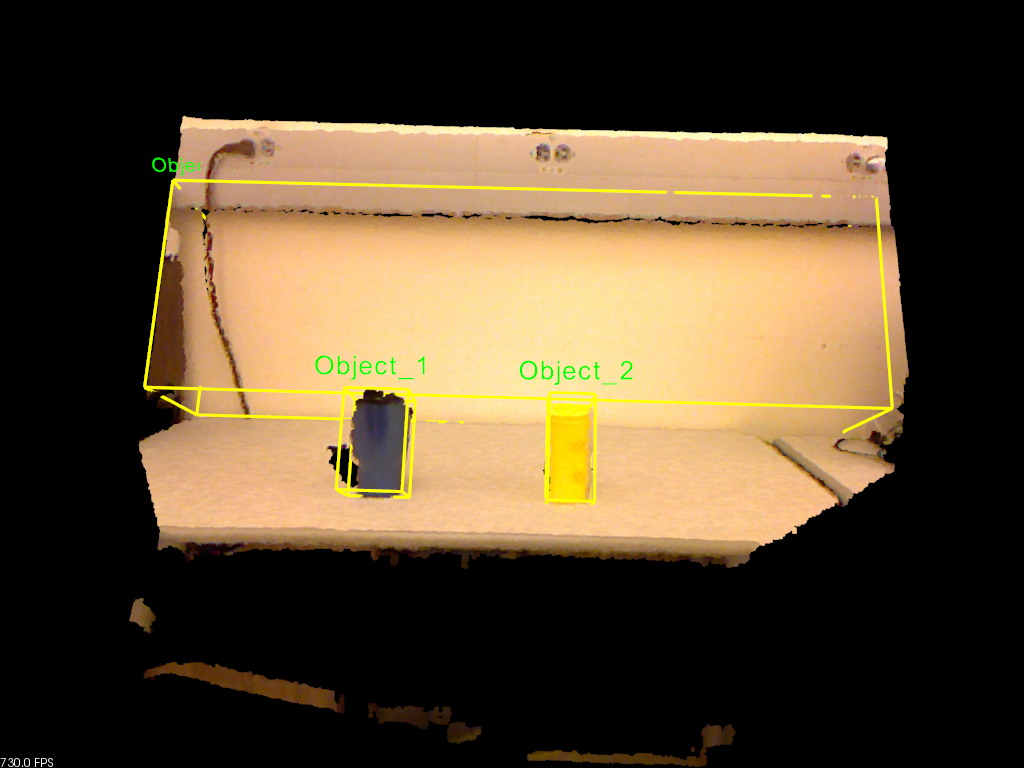
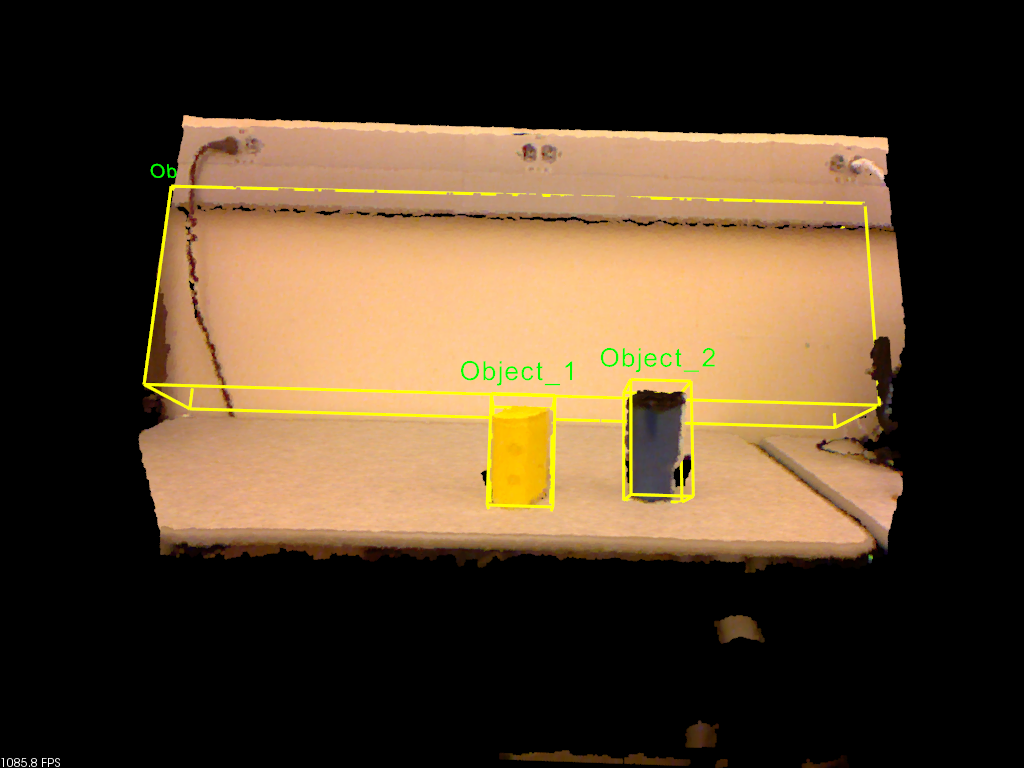
updated object grasping routine and OPE

diff --git a/scripts/joint_trajectory_server.py b/scripts/joint_trajectory_server.py
@@ -72,21 +72,29 @@ import threading
 class JointTrajectoryServer():
 	def __init__(self, device_num=None, left_right='l'):
 
-		self.isInitialized = False
-		self.encoder_decode_error = False
-		self.interface = None 			# python serial interface
+		self.is_initialized = False 		# gets set after constructer successfully finishes
+		self.encoder_decode_error = False	# gets set when theres an issue decoding serial responses... not sure how to fix 
+		self.interface = None 				# python serial interface
 
-		device_list = self.getUSBDeviceNames()
-		if device_num == None:
-			self.device_name = device_list[0] 					# linux device name for serial interface
+		# get the device names from /dev folder
+		device_list = self.getUSBDeviceNames() 
+		if len(device_list) != 0:
+			if device_num == None:
+				self.device_name = device_list[0] 					# linux device name for serial interface
+			else:
+				self.device_name = device_list[device_num] 					# linux device name for serial interface
 		else:
-			self.device_name = device_list[device_num] 					# linux device name for serial interface
+			print "Error initializing serial interface... (make sure the arms are plugged in!)"
+			return
 
+		print "------------------------------------------------------------------------------------------"
+		print "sudo priveleges are needed to load the kernel module and change USB write permissions..."
+		print "------------------------------------------------------------------------------------------"
 		call(["sudo", "chmod", "+777", self.device_name]) 	# give permissions to access device file
 		self.initializeSerialInterface(self.device_name)
 		self.resetSerialInterface()
 
-		# need a better method here
+		# TODO: need a better method here for determining r/l arms
 		if 'r' in left_right:
 			self.arm_name = "right"
 		else:
@@ -94,18 +102,20 @@ class JointTrajectoryServer():
 
 		print "Initializing", self.arm_name, "arm..."
 
-		self.rate = 0.22 					# pulse width period for sending joint commands through USB  (Dont change it) (0.3 is safe, 0.2 is extreme)
-		self.max_trajectory_velocity = 0.25 # maximum allowed joint velocity (rad/sec)
-		self.pauseControlLoop = False		# flag to set when you want to use serial commands outside of the control loop
+		self.rate = 0.25 					# pulse width period for sending joint commands through USB  (Dont change it) (0.3 is safe, 0.2 is extreme)
+		self.max_trajectory_velocity = 0.3  # maximum allowed joint velocity (rad/sec)
+		self.pause_control_loop = False		# flag to be set when you want to use serial commands outside of the control loop
+		self.planning_failed = False 		# subscribes to the status topic sent from the motion planner 
+											# (THIS FIXES A KNOWN BUG: path plans that result in arm collision are executed (because planning == execution))
 
 		# serial communication results
 		self.joint_array = None 	# most recent hex array from encoders
 		self.joint_angles = None 	# most recent decoded joint angles
 		self.trajectory_queue = [] 	# trajectory queue contains incoming arm trajectory goals
-		self.trajectory_queue_len = 1
+		self.trajectory_queue_len = 1  # holds multiple trajectories if we want to execute queued path plans
 
 		# joint names from ee -> base
-		self.orderedJoints = ['g', 'j6', 'j5', 'j4', 'j3', 'j2', 'j1']
+		self.ordered_joints = ['g', 'j6', 'j5', 'j4', 'j3', 'j2', 'j1']
 		self.full_joint_names = [self.arm_name +'_joint1', self.arm_name +'_joint2', self.arm_name +'_joint3', \
 								 self.arm_name +'_joint4', self.arm_name +'_joint5', self.arm_name +'_joint6']
 
@@ -117,6 +127,7 @@ class JointTrajectoryServer():
 
 		# ros subs and pubs
 		self.rviz_trajectory_sub = rospy.Subscriber('/move_group/result', MoveGroupActionResult, self.updateMoveitTrajectory, queue_size=4)
+		self.rviz_status_sub = rospy.Subscriber('/move_group/status', GoalStatusArray, self.updateMoveitStatus, queue_size=1)
 		self.gripper_sub = rospy.Subscriber('/mara/limb/' + self.arm_name +'/gripper_action/position', Int32, self.updateGripperPosition, queue_size=1)
 
 		self.joint_state_pub = rospy.Publisher("/mara/limb/" +self.arm_name +"/joint_states", JointState, queue_size=1)
@@ -137,9 +148,10 @@ class JointTrajectoryServer():
 	#--------------------------------------------------------------------------------------------------------------------------------------------------#
 	# Callbacks
 	#--------------------------------------------------------------------------------------------------------------------------------------------------#
+	# commands gripper to published position
 	def updateGripperPosition(self, msg):
 		print "Commanding", self.arm_name, 'gripper to', str(msg.data)
-		self.pauseControlLoop = True 	# pause the control loop to free the serial bus
+		self.pause_control_loop = True 	# pause the control loop to free the serial bus
 		rospy.sleep(1.0)
 
 		angles = {self.arm_name+'_joint1':0.0, self.arm_name+'_joint2':0.0,self.arm_name+'_joint3':0.0, \
@@ -162,7 +174,7 @@ class JointTrajectoryServer():
 		msg.status = msg.PENDING
 		self.gripper_result_pub.publish(msg)
 
-
+	# sends joint state feedback on the simple action server
 	def updateFeedback(self, desired_point, angles, error_dict, curr_time):
 		print self.fdbk
 		self.fdbk.header.stamp = rospy.Duration.from_sec(rospy.get_time())
@@ -175,17 +187,26 @@ class JointTrajectoryServer():
 		self.fdbk.error.time_from_start = rospy.Duration.from_sec(curr_time)
 		self.server.publish_feedback(self.fdbk)
 
+	# recognizes ABORTED motion plans
+	def updateMoveitStatus(self, msg):
+		if len(msg.status_list) > 0:
+			if msg.status_list[0].status == msg.status_list[0].ABORTED:
+				print "Error, planning failed!"
+				self.planning_failed = True
+			else:
+				self.planning_failed = False
+
 
 	# receives trajectories from the moveit topic and adds them to the execution queue
 	def updateMoveitTrajectory(self, msg):
-		self.pauseControlLoop = True 	# pause the control loop to free the serial bus
+		self.pause_control_loop = True 	# pause the control loop to free the serial bus (otherwise its constantly queried and we could get bad data)
 		rospy.sleep(0.1)
 
 		# first get the most recent joint states
 		angles = self.getJointAngles() 
 		self.updateJointPositions(angles)
 
-		self.pauseControlLoop = False
+		self.pause_control_loop = False
 		rospy.sleep(0.1)
 
 		# determine what kind of message we received
@@ -264,7 +285,7 @@ class JointTrajectoryServer():
 		try:
 			self.interface = serial.Serial(device_name, 9600,xonxoff=True, timeout=0.1)
 			print self.interface.name
-			self.isInitialized = True
+			self.is_initialized = True
 		except:
 			print("Could not open usb interface for left arm on: \t ---> \t" + str(device_name))
 			print "Attempting to load the kernel module..."
@@ -273,11 +294,11 @@ class JointTrajectoryServer():
 			try:
 				print ("Opening mara control on: \t \t ---> \t" + str(self.interface.name))
 				self.interface = serial.Serial(self.device, 9600, xonxoff=True, timeout=0.1)
-				self.isInitialized = True
+				self.is_initialized = True
 
 			except Exception, e:
 				print "Failed...exiting"
-				self.isInitialized = False
+				self.is_initialized = False
 
 	def resetSerialInterface(self):
 		os.system("sudo modprobe usbserial vendor=0x067b product=0x2303")
@@ -286,7 +307,7 @@ class JointTrajectoryServer():
 		val = self.interface.read(1)
 		while val:
 			val = self.interface.read(1)
-		self.isInitialized = True
+		self.is_initialized = True
 
 
 	# looks for USB devices on /dev, returns a list of stings containing the device names
@@ -470,7 +491,7 @@ class JointTrajectoryServer():
 		return new_vel
 
 	# OLD (Dont use)
-	# static velocity control (only using 10, 20, or 30 deg per sec builtin commands)
+	# static velocity control (only using 10, 20, or 30 deg per sec builtin commands) using 'jv' command
 	def commandJointAngle_STATIC(self, joint_name, angle, vel, variable_velocity=False):
 
 		angles = self.getJointAngles()
@@ -505,7 +526,6 @@ class JointTrajectoryServer():
 				vel = self.signVelocity(angles[joint_name], angle, vel, isGripper)
 				self.commandJointVelocity(joint_name, vel)
 				angles = self.getJointAngles()
-				print angles
 
 				if lower < 0:
 					stop_condition = inRange(angles[joint_name], 360 + lower, 360) or inRange(angles[joint_name], 0, upper)
@@ -517,7 +537,7 @@ class JointTrajectoryServer():
 			#self.stopMovement()
 			self.commandJointVelocity(joint_name, 0)
 
-	# command joints to a specific postion at constant velocity
+	# command joints to a specific postion at constant velocity (using 'm' command)
 	def commandAllJointAngles(self, des_angles, vels):
 
 		curr_angles = self.getJointAngles()
@@ -581,7 +601,7 @@ class JointTrajectoryServer():
 			rospy.sleep(rate)
 
 		print "Done!"
-		self.pauseControlLoop = False
+		self.pause_control_loop = False
 
 
 
@@ -656,7 +676,7 @@ class JointTrajectoryServer():
 
 			while not rospy.is_shutdown():
 
-				if not self.pauseControlLoop:
+				if not self.pause_control_loop:
 					velocity_windows = {'j1':[], 'j2':[], 'j3':[], 'j4':[], 'j5':[], 'j6':[], 'g':[]}		# records instantaneous velocities of joints
 
 					# while no trajectories are being executed, simply update the joint state
@@ -685,6 +705,7 @@ class JointTrajectoryServer():
 						# iterate through waypoints in the trajectory
 						for waypoint, waypoint_num in zip(curr_trajectory.points, range(len(curr_trajectory.points))):
 
+							# check if its the last waypoint (do extra correction if so)
 							last_waypoint = False
 							if waypoint_num == len(curr_trajectory.points)-1:
 								last_waypoint = True
@@ -696,7 +717,7 @@ class JointTrajectoryServer():
 							t_interval = period 			# initial velocity calcualtion based on ideal interval
 							initial_command = True 			# dont the period for initial command
 							error_warning = False			# warns when joints are outside final error
-							final_error_tolerance = 1.5
+							final_error_tolerance = 0.8
 
 							waypoint_angles = angles 		# joint values when waypoint was started
 							#print "WAYPOINT--------", waypoint_num,"of", len(curr_trajectory.points),"---------------------------------------------------"
@@ -704,9 +725,9 @@ class JointTrajectoryServer():
 							#print 'check time = ', t_subdiv - t_start
 							#print 'current waypoint duration', waypoint.time_from_start.to_sec()
 
-							error_correct_attempts = 0
+							error_correct_attempts = 0 		# number of attempted corrections on final waypoint
 							# if the waypoint goal time has not elapsed, or we reached the last waypoint with significant error
-							while t_subdiv < t_start + waypoint.time_from_start.to_sec() or (last_waypoint and error_warning and error_correct_attempts < 30):
+							while t_subdiv < t_start + waypoint.time_from_start.to_sec() or (last_waypoint and error_warning and error_correct_attempts < 20):
 
 								# attempt to re-query the joint state
 								while None in angles.viewvalues():
@@ -798,9 +819,9 @@ class JointTrajectoryServer():
 									positions_err_dict[joint_name].append(err_theta)
 									velocities_err_dict[joint_name].append(err_vel)
 
-									# PD calculation
-									kp = 0.05
-									kd = 0.2
+									# PD calculation (these values can probably be tuned a little better)
+									kp = 0.01
+									kd = 0.1
 									pid_vel = vel * min((kp * abs(err_theta)), 1.0) + (kd * err_vel)
 
 									# set duty cycles
@@ -872,7 +893,7 @@ class JointTrajectoryServer():
 
 						avg_pos_errors = {'j1':0, 'j2':0, 'j3':0, 'j4':0, 'j5':0, 'j6':0, 'g':0}
 						avg_vel_errors = {'j1':0, 'j2':0, 'j3':0, 'j4':0, 'j5':0, 'j6':0, 'g':0}
-						for j in self.orderedJoints:
+						for j in self.ordered_joints:
 							for p_e, v_e in zip(positions_err_dict[j], velocities_err_dict[j]):
 								avg_pos_errors[j] = avg_pos_errors[j] + abs(p_e)
 								avg_vel_errors[j] = avg_vel_errors[j] + abs(v_e)
@@ -917,7 +938,7 @@ success = rospy.init_node('joint_trajectory_controller_'+lr)
 jts = JointTrajectoryServer(device_num=num, left_right=lr)
 
 # initialize the grippers and have user watch to find the device num
-if jts.isInitialized:
+if jts.is_initialized:
 	jts.initializeGripper()
 
 jts.startJointTrajectoryControlLoop()

diff --git a/scripts/mara_controller.py b/scripts/mara_controller.py
@@ -35,6 +35,8 @@ from control_msgs.msg import (
 #	$ rosrun mara mara_controller.py   
 
 
+# To kill all MARA processes: $ sudo kill -9 `ps -ef | grep mara | awk '{ print $2 }'`
+
 
 
 OPENNI_CMD = "roslaunch openni_launch openni.launch"
@@ -149,6 +151,8 @@ class mara_controller():
 			print "Waiting on execution"
 			self.waitOnArmSuccess('right')
 
+	# creates a path plan to the specified (x,y,z) coordinates
+	# TODO: Fix the issue where PLANs actually EXECUTE (execution code is commented)
 	def moveArmToPosition(self, arm, pos, orient):
 		if arm == 0 or arm == "left":
 			rospy.loginfo("Moving Left arm")
@@ -178,6 +182,7 @@ class mara_controller():
 			print "Waiting on execution"
 			self.waitOnArmSuccess('right')
 
+	# transforms a position (x,y,z) and orientation (r,p,y) to a new frame that is in the tf tree
 	def transformPoseToFrame(self, pos, rot, frame):
 		msg = PoseStamped()
 		msg.header = Header()
@@ -196,11 +201,13 @@ class mara_controller():
 		new_pose = self.tf_listen.transformPose(frame, msg)
 		return new_pose.pose.position, new_pose.pose.orientation
 
+	# removes all collision models from the planning environment
 	def removeOPECollisionModels(self):
 		for i in range(100):
 			self.moveit.scene.remove_world_object("OBJECT" + str(i))
 		self.moveit.scene.remove_world_object("TABLE")
 
+	# runs OPE and saves obejct/table position then adds them to the planning environment
 	def getObjectPositions(self):
 		# remove old point cloud files
 		rospy.loginfo("Removing old point clouds and collision models")
@@ -249,10 +256,12 @@ class mara_controller():
 		rospy.loginfo("Moving right gripper")
 		self.commandGripperPosition(lr='right', val=80)
 
-		self.objectNum = 2
+		self.objectNum = 1
 		objectPos = OPEAssist.objList[self.objectNum]['objPos']
 		preObjectPos = copy.deepcopy(OPEAssist.objList[self.objectNum]['objPos'])
-		preObjectPos[1] -= 0.2
+		objectPos[1] -= 0.1 			# make the object position just in front of the centroid
+		preObjectPos[1] -= 0.28			# amke the pre-object position just in front of the object
+
 
 		rospy.loginfo("Moving to pre object")
 		self.moveArmToPosition( "right", preObjectPos, mara_positions.rightWaitingRot )

diff --git a/scripts/OPEAssist.py b/scripts/OPEAssist.py
@@ -34,13 +34,13 @@ def loadOPEResults():
     if objCount > 0:
         tablePos = [float(x) for x in ope_results.readline().split()]
         tableSize = [float(x) for x in ope_results.readline().split()]
-        tableSize[0] += 0.3
+        tableSize[0] += 0.3     # scale the table in the X direction to prevent underhand gripping
 
         # GLOBAL TABLE ADJUSTMENT
 
         tablePos[0] = tablePos[0]  # X
         tablePos[1] = tablePos[1]  # Y
-        tablePos[2] = tablePos[2]  -0.16# Z
+        tablePos[2] = tablePos[2]  -0.12# Z
 
         for k in range(objCount):
             ope_results.readline()
@@ -51,7 +51,7 @@ def loadOPEResults():
             # GLOBAL OBJECT ADJUSTMENT
             temp_objPos[0] = temp_objPos[0] # X
             temp_objPos[1] = temp_objPos[1] # Y
-            temp_objPos[2] = temp_objPos[2] +0.04# Z
+            temp_objPos[2] = temp_objPos[2] - 0.01# Z
 
             objList.append({'objNumber':k,
                             'objPos':temp_objPos,
